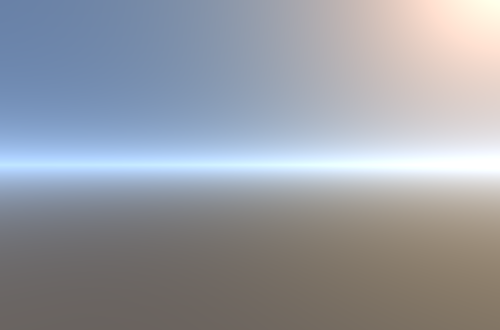
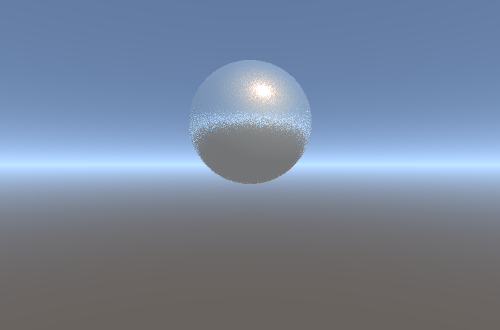
光泽反射模型

diff --git a/src/core/Material.py b/src/core/Material.py
@@ -1,14 +1,15 @@
 import os.path
 
 from Color import *
+from Sampler import *
 
 def generate_shader(scriptContent, shadepass):
-	head = 'from Vector import *\nfrom Color import Color\nimport math\nfrom Light import *\nfrom Scene import *\nfrom Tracer import *\n'
+	head = 'from Vector import *\nfrom Color import Color\nimport math\nfrom Light import *\nfrom Scene import *\nfrom Tracer import *\nfrom Sampler import *\n'
 	entry = '\n%s(hit, scene, output)'%shadepass
 	return head + scriptContent + entry 
 
 class Material:
-	def __init__(self, shader):
+	def __init__(self, shader, params = None):
 		if os.path.exists(shader) == True:
 			file = open(shader)
 			shaderScript = file.read()
@@ -17,12 +18,23 @@ class Material:
 		else:
 			self.shader = None
 		self.params = {}
+		if params != None:
+			for p in params:
+				Material.set_param(self, p, params[p])
 
 	def set_param(self, key, value):
+		if key == 'sampler':
+			tp = value['type']
+			num = value['num_samples']
+			exp = value['exp']
+			s = eval('%s(%d)'%(tp, num))
+			s.map_samples_to_hemisphere(exp)
+			self.params['sampler'] = s
+			return
 		self.params[key] = value
 
-	def set_params(self, params):
-		self.params = params
+	# def set_params(self, params):
+	# 	self.params = params
 
 	def get_param(self, key):
 		if key in self.params:

diff --git a/res/shaders/phong2.shader.py b/res/shaders/phong2.shader.py
@@ -27,14 +27,29 @@ def main(hit, scene, output):
 				c += (rdwo**glossy)*sepccol
 			col = col + c* (ndl*light.G(hit)* light.L(hit, scene)/light.pdf(hit))
 
-	#cr = Color(cr_col[0],cr_col[1],cr_col[2],cr_col[3])
+	cr = Color(cr_col[0],cr_col[1],cr_col[2],cr_col[3])
 
-	#vrefl = Vector3.reflect(wo, hit.normal)
+	vrefl = Vector3.reflect(wo, hit.normal)
 
-	#fr = kr*cr/Vector3.dot(vrefl, hit.normal)
-	#reflray = Ray(hit.point, vrefl)
-	#traceback = scene.tracer.trace(reflray, scene, 0.000001, hit.depth+1)
-	#if traceback:
-	#	col = col + Vector3.dot(hit.normal, vrefl) * fr * traceback
+	w = vrefl.get_normalized()
+	u = Vector3.cross(Vector3(0.00424,1,0.00764), w)
+	u.normalize()
+	v = Vector3.cross(u, w)
+
+	sp = sampler.sample_hemisphere()
+	wi = sp.x*u+sp.y*v+sp.z*w
+
+	if Vector3.dot(wi, hit.normal) < 0.0:
+		wi = -sp.x*u-sp.y*v-sp.z*w
+
+	phong_lobe = (Vector3.dot(vrefl, wi))**exp
+	pdf = phong_lobe*Vector3.dot(hit.normal, wi)
+
+	fr = phong_lobe*kr*cr
+
+	reflray = Ray(hit.point, wi)
+	traceback = scene.tracer.trace(reflray, scene, 0.000001, hit.depth+1)
+	if traceback:
+		col = col + Vector3.dot(hit.normal, wi) * fr/pdf * traceback
 
 	output['result'] = col

diff --git a/src/core/Light.py b/src/core/Light.py
@@ -211,10 +211,10 @@ class EnvironmentLight(Light):
 			shadow = params['shadow'] == 1
 		if 'shader' in params:
 			params['shader'] = Res.combine_res_path(params['shader'])
-		mat = Material(params["shader"])
-		if 'shader_params' in params:
-			for p in params["shader_params"]:
-				mat.set_param(p, params["shader_params"][p])
+		mat = Material(params["shader"], params["shader_params"])
+		# if 'shader_params' in params:
+		# 	for p in params["shader_params"]:
+		# 		mat.set_param(p, params["shader_params"][p])
 		return EnvironmentLight(sampler, shadow, mat)
 
 def create_light(ltype, params):

diff --git a/src/Main.py b/src/Main.py
@@ -6,8 +6,8 @@ from Scene import Scene
 
 if __name__ == "__main__":
 	scene = Scene()
-	if scene.init_scene('../res/skytest.json') == True:
-		scene.render('../outputs/skytest')
+	if scene.init_scene('../res/refltest.json') == True:
+		scene.render('../outputs/refltest')
 		#scene.render_debug(237,86)
 
 
